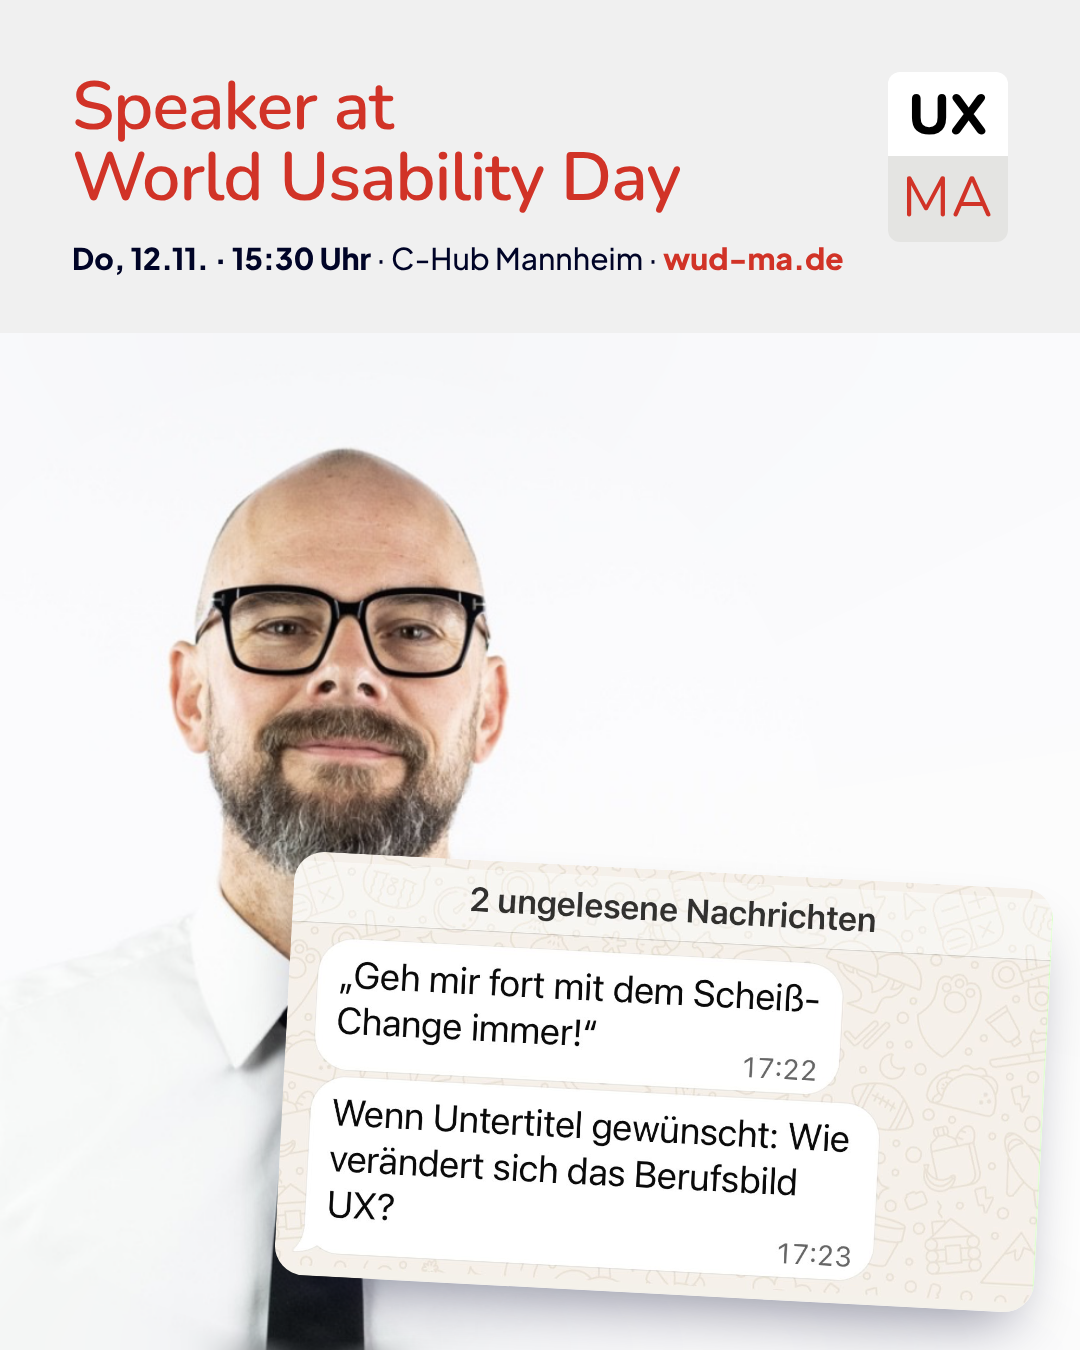
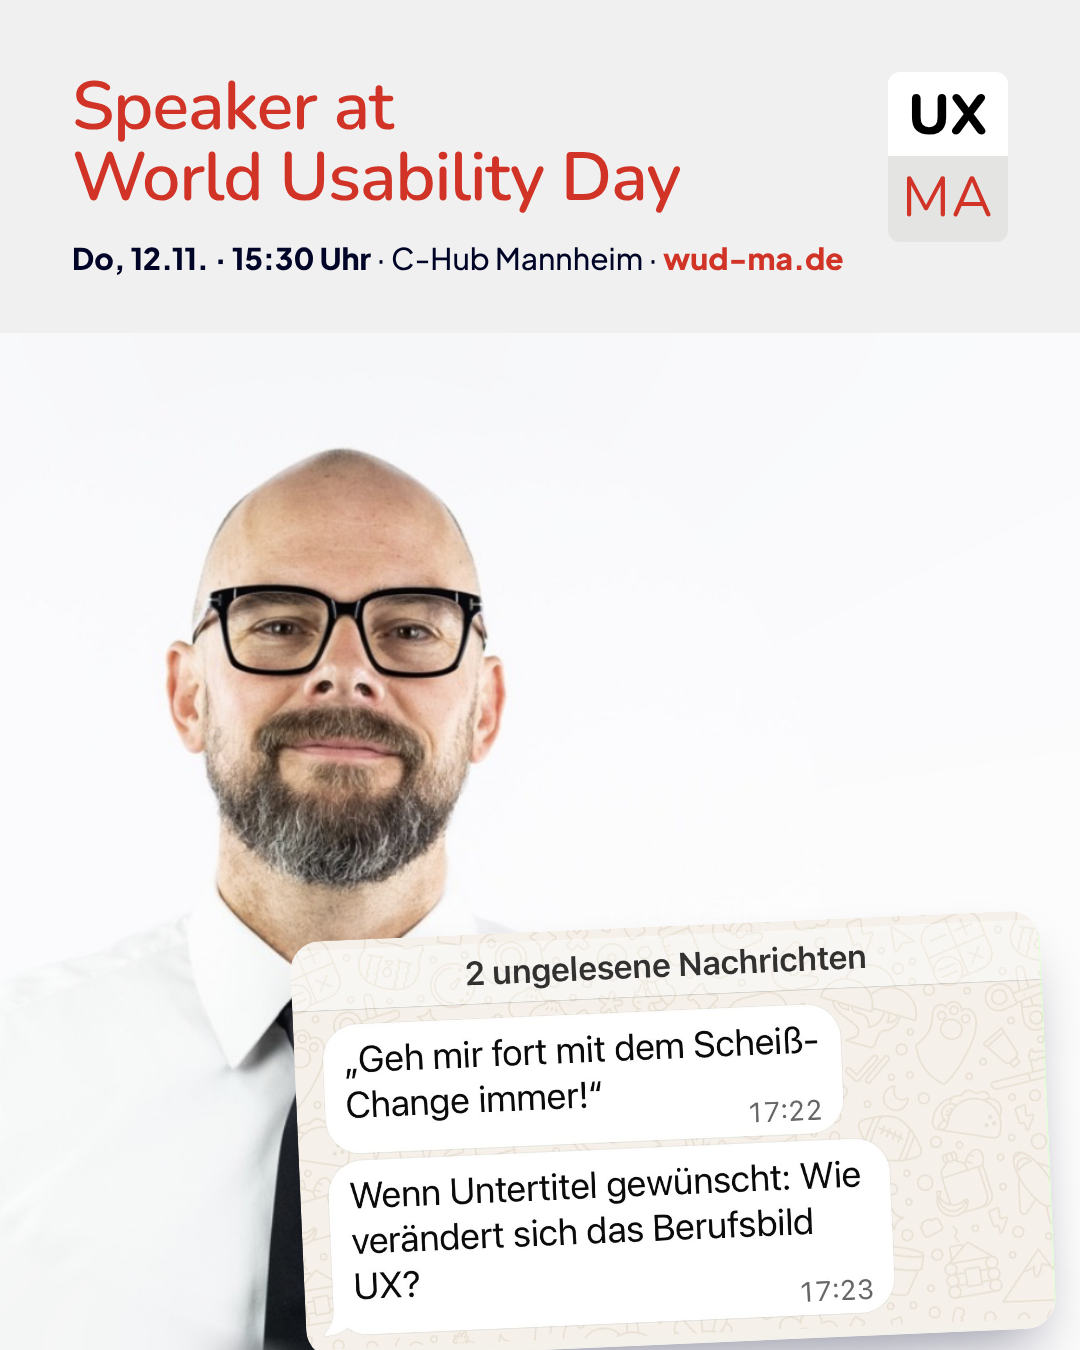
Chat-Version: Screenshot andersherum geneigt und tiefer, Gesicht komplett frei
Claude-Session: https://claude.ai/code/session_01FdBpF3p1XTs9Kowkd1XXbf

Changed region(s): [[0.1528, 0.4356, 0.9472, 1.0], [0.3972, 0.3733, 0.4278, 0.4044], [0.1833, 0.3733, 0.2139, 0.4044]]

diff --git a/assets/src/keynote-speaker.html b/assets/src/keynote-speaker.html
@@ -55,7 +55,7 @@
   .url { color: var(--red); font-weight: 800; }
   .share-head { font-size: 68px; color: var(--red); line-height: 1.04; max-width: 800px; }
   .share-meta { margin-top: 26px; }
-  .shot { position: absolute; right: 36px; bottom: 56px; width: 760px; transform: rotate(3deg);
+  .shot { position: absolute; right: 32px; bottom: 6px; width: 750px; transform: rotate(-2.5deg);
           border-radius: 30px; overflow: hidden; box-shadow: 0 30px 60px -24px rgba(0,4,39,.45); }
   .shot img { width: 100%; display: block; }
 </style>
